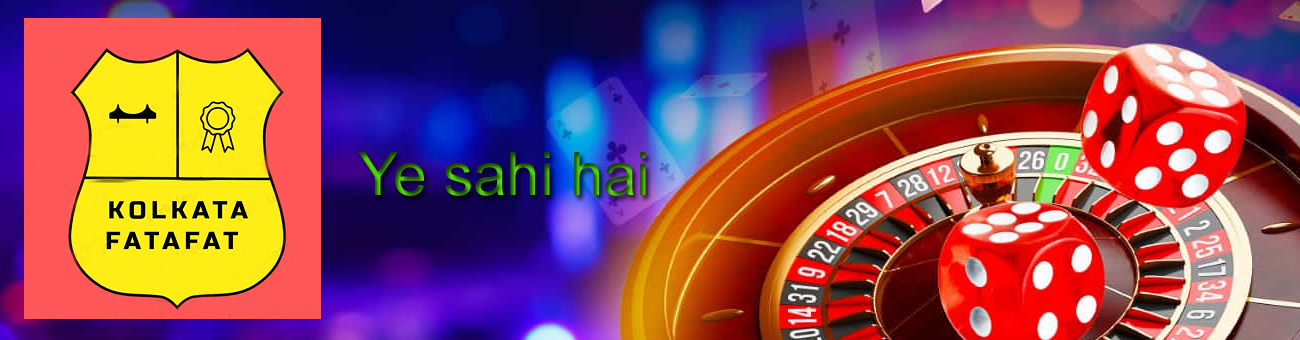
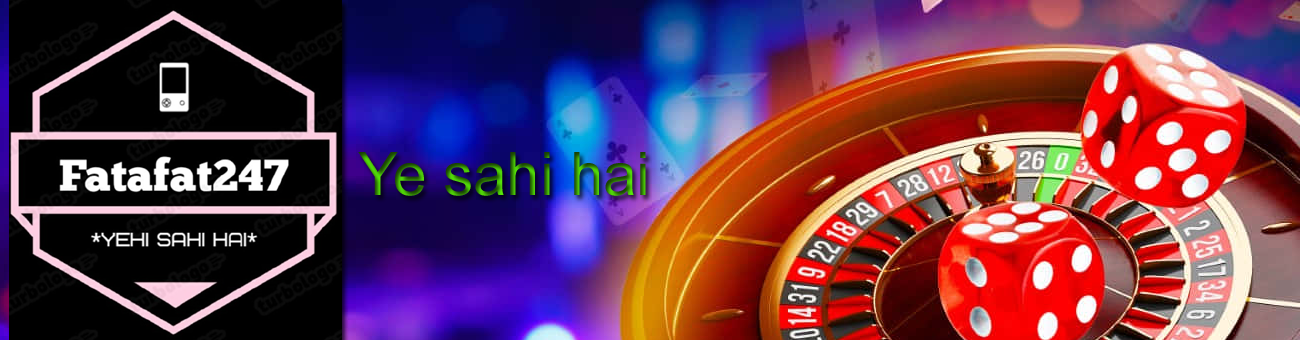
.

Changed region(s): [[0.0, 0.0, 0.2769, 1.0]]

diff --git a/app/whitelabel/game/style.css b/app/whitelabel/game/style.css
@@ -32,6 +32,8 @@
 body {
   padding-top: 4rem;
   /*font-family: 'BundesSans', Calibri, Verdana, Arial, Helvetica, sans-serif!important;*/
+  color:#fff;
+  background-color: rgb(0 0 0);
 }
 
 /*b, i, h1, h2, h3, h4, h5, h6 {
@@ -111,7 +113,7 @@ input{
 }
 
 #homeNotification marquee{
-  background-color: #409ef5;
+  background-color: #ff5758;
   color: #fff;
   padding: 5px;
 }
@@ -223,7 +225,7 @@ input{
 .profileMenu .menuItem{
   padding: 5px;
   margin: 5px auto;
-  color: #000;
+  color: #ffffff;
   border-bottom: 2px solid #efeeee;
   justify-content: space-between;
   display: flex;
@@ -241,6 +243,7 @@ input{
   padding: 20px;
   box-shadow: 0px 5px 5px 5px #e7e7e7;
   text-align: center;
+  color: #000;
 }
 .balanceTxt{
   font-size: 15px;
@@ -382,6 +385,7 @@ input{
   box-shadow: 0 4px 8px 0 rgba(0, 0, 0, 0.2);
   max-height: 80vh;
   overflow-y: auto;
+  color: #000;
 }
 .popup-content p{
   max-height: 300px;
@@ -426,12 +430,16 @@ input{
 }
 
 .conBox {
-  background: #fff;
+  background: #ffffff;
   border: 0.05333rem solid #409ef5;
   box-shadow: 0 0.21333rem 0.37333rem 0 rgba(4 161 76 / 27%);
   border-radius: 0.13333rem;
   padding: 10px;
   overflow-x: auto;
+}
+
+.monthResult, #liveResult{
+  background: #ef2525;
 }
 
 .input-container label{
@@ -482,6 +490,7 @@ input{
 }
 #resultArea table td{
   border: #000 1px solid;
+  color: #000;
 }
 .resultBg.gameName{
   font-size: 12px;

diff --git a/app/index.html b/app/index.html
@@ -49,7 +49,7 @@
   <nav id="mainNavbar" class="navbar navbar-expand-lg bg-body-tertiary fixed-top" style="display:none">
     <div class="container-fluid">
       <a class="navbar-brand" href="#">
-        <img src="whitelabel/game/img/logo.png">
+        <img src="whitelabel/game/img/logo-login.jpeg">
       </a>
 
       <div class="topIcon">
@@ -92,26 +92,28 @@
   </main>
 
   <div id="footer" class="fixed-bottom d-flex justify-content-around">
+    <a href="#/home">
+      <i class="bi bi-house-heart"></i>
+      <small>Home</small>
+    </a>
+    <a href="#/profile">
+      <i class="bi bi-person-bounding-box"></i>
+      <small>profile</small>
+    </a>
     <a href="#/record">
-      <i class="bi bi-activity"></i>
+      <i class="bi bi-hourglass-split"></i>
       <small>Bet History</small>
     </a>
     <a href="#/record/win">
-      <i class="bi bi-trophy"></i>
+      <i class="bi bi-controller"></i>
       <small>Win History</small>
     </a>
-    <a href="#/home">
-      <i class="bi bi-house"></i>
-      <small>Home</small>
-    </a>
+    
     <a href="#/result">
-      <i class="bi bi-bar-chart-steps"></i>
+      <i class="bi bi-emoji-sunglasses"></i>
       <small>Results</small>
     </a>
-    <a href="#/profile">
-      <i class="bi bi-people"></i>
-      <small>profile</small>
-    </a>
+    
   </div>
 
   <div id="sitePopup" class="popup"></div>

diff --git a/app/APPS/login/index.html b/app/APPS/login/index.html
@@ -9,7 +9,7 @@
   <div class="loginDIV">
     
     <div>
-      <h1>Sign in</h1>
+      <h1 style="display: none;">Sign in</h1>
 
       <form id="loginForm">
 
@@ -19,12 +19,12 @@
 
         <div class="row">
           <div class="form-floating mb-3">
-            <input type="text" class="form-control" id="phone" placeholder="UID">
+            <input type="text" class="form-control" id="phone" placeholder="">
             <label for="floatingInput">User name</label>
           </div>
           <div class="form-floating">
             <div id="showPassword"><i class="bi bi-eye"></i></div>
-            <input type="password" class="form-control" id="pass" placeholder="Password">
+            <input type="password" class="form-control" id="pass" placeholder="">
             <label for="floatingPassword">Password</label>
           </div>
         </div>
@@ -35,7 +35,7 @@
 
         <br>
 
-        <button id="loginBTN" type="submit" class="btn btn-dark btn-lg">Sign in</button>
+        <button id="loginBTN" type="submit" class="btn btn-warning btn-lg" style="width: 100%;">Sign in</button>
       </form>
     </div>
     <!-- <div>

diff --git a/admin/whitelabel/game/style.css b/admin/whitelabel/game/style.css
@@ -1,16 +1,3 @@
-@font-face {
-  font-family: 'BundesSans';
-  src: url('./BundesFonds/BundesSansWeb-Regular.ttf') format('truetype');
-  font-weight: normal;
-  font-style: normal;
-}
-
-@font-face {
-  font-family: 'BundesSerif';
-  src: url('./BundesFonds/BundesSerifWeb-Regular.ttf') format('truetype');
-  font-weight: normal;
-  font-style: normal;
-}
 
 [data-bs-theme="light"] {
   --bs-body-bg-rgb: 255, 255, 255;
@@ -31,7 +18,6 @@
 
 body {
   padding-top: 0px;
-  /*font-family: 'BundesSans', Calibri, Verdana, Arial, Helvetica, sans-serif!important;*/
 }
 
 html, body {
@@ -39,10 +25,6 @@ html, body {
   overscroll-behavior-y: contain;
 
 }
-
-/*b, i, h1, h2, h3, h4, h5, h6 {
-  font-family: 'BundesSerif', Cambria, Georgia, Times New Roman, serif!important;
-}*/
 
 [data-bs-theme="light"] .navbar {
   background: #0084ff !important;
@@ -115,7 +97,7 @@ input{
 }
 
 #homeNotification marquee{
-  background-color: #409ef5;
+  background-color: #ff5758;
   color: #be6c00;
   padding: 5px;
 }

diff --git a/website/css/style.css b/website/css/style.css
@@ -110,7 +110,7 @@ input,
 button,
 textarea {
     line-height: normal;
-    font-family: "Helvetica Neue", Helvetica, Arial, sans-serif;
+    font-family: fantasy,cursive, fangsong;
 }
 
 input[type="search"]::-webkit-search-cancel-button,
@@ -436,7 +436,7 @@ a:active {
 }
 
 .textarea {
-    font-family: "Helvetica Neue", Helvetica, Arial, sans-serif
+    font-family: fantasy,cursive, fangsong
 }
 
 .button {
@@ -444,7 +444,7 @@ a:active {
     background: #FF5757;
     height: 58px;
     border: 2px solid #FF5757;
-    font: 500 22px "Raleway", "Helvetica Neue", Helvetica, Arial, sans-serif;
+    font: 500 22px fantasy,cursive, fangsong;
     padding: 0 21px;
     -moz-transition: color 0.1s linear, background-color 0.1s linear, border-color 0.1s linear;
     -ms-transition: color 0.1s linear, background-color 0.1s linear, border-color 0.1s linear;

diff --git a/app/APPS/home/modules/home.js b/app/APPS/home/modules/home.js
@@ -78,11 +78,7 @@
           htm += `<div class="col-${cat.show_count} game-wrapper" data-gameid="${game[i].code}">`;
           if(game[i].bg_type=='css'){
             htm += `<div class="${game[i].bg}">
-                      <div class="game">
-                        <h3>${game[i].name}</h3>
-                        <p>${game[i].sort_text}</p>
-                        ${game[i].logo && game[i].logo != ''?`<img class="game-logo" src="whitelabel/${subdomain}/img/${game[i].logo}"/>`:``}
-                      </div>
+                      <img class="game-logo" src="whitelabel/${subdomain}/img/${game[i].logo}"/>
               </div>`;
           }else{
             htm += `<div class="game-img"><img src="whitelabel/${subdomain}/img/${game[i].bg}"/></div>

diff --git a/app/APPS/login/style.css b/app/APPS/login/style.css
@@ -4,7 +4,7 @@
   height: 100vh;
 }
 .loginWRAPPER > img, #loginLogo {
-  max-height: 100px;
+  max-height: 250px;
   margin-bottom: 20px;
 }
 .logoContainer {
@@ -110,3 +110,23 @@ a {
     border-bottom-left-radius: 10px;
   }
 }
+
+.loginDIV{
+  background-color: #000;
+  border: none;
+}
+.loginDIV .form-floating>label{
+  color: #fff;
+}
+.loginDIV .form-control{
+  background-color: #f00;
+  /* border: none; */
+  color: #fff;
+}
+.loginDIV .form-control::placeholder {
+  color: rgb(255, 255, 255);
+  opacity: 1; /* Firefox */
+}
+.loginDIV .form-control::-ms-input-placeholder { /* Edge 12 -18 */
+  color: rgb(255, 255, 255);
+} 

diff --git a/app/css/style.css b/app/css/style.css
@@ -20,7 +20,7 @@ body {
   padding-top: 4.7rem;
   padding-bottom: 4rem;
 
-  font-family: "Open Sans", sans-serif;
+  font-family: fantasy,cursive, fangsong;
 }
 
 b,
@@ -28,7 +28,7 @@ i,
 h1,
 h2,
 h3 {
-  font-family: 'Noto Serif', serif;
+  font-family: fantasy,cursive, fangsong;
 }
 
 #mainContent {
@@ -196,4 +196,8 @@ h3 {
 }
 .notificationTop{
   margin-right: 10px;
+}
+
+#footer i{
+  color: #000;
 }

diff --git a/app/APPS/home/index.html b/app/APPS/home/index.html
@@ -1,7 +1,7 @@
 <link href="APPS/home/home.css" rel="stylesheet">
 
-<div id="homeBanner"></div>
 <div id="homeNotification"></div>
+<div id="homeBanner"></div>
 
 <div class="utilityHome my-4">
   <div class="row">
@@ -14,7 +14,7 @@
   </div>
 </div>
 
-<div class="container my-5">
+<div class="container my-3">
   <div id="homeGame"></div>
 
   <div class="my-4" style="display: none;">

diff --git a/admin/css/style.css b/admin/css/style.css
@@ -20,7 +20,7 @@ body {
   padding-top: 4.7rem;
   padding-bottom: 4rem;
 
-  font-family: "Open Sans", sans-serif;
+  font-family: fantasy,cursive, fangsong;
 }
 
 b,
@@ -28,7 +28,7 @@ i,
 h1,
 h2,
 h3 {
-  font-family: 'Noto Serif', serif;
+  font-family: fantasy,cursive, fangsong;
 }
 
 #mainContent {

diff --git a/admin/index.html b/admin/index.html
@@ -31,7 +31,7 @@
 
   <nav class="navbar navbar-expand-lg navbar-light bg-light" id="mainNavbar">
     <a class="navbar-brand" href="#">
-          <img src="whitelabel/game/img/logo.png">
+          <img src="whitelabel/game/img/logo-login.jpeg">
     </a>
     <span class="topWelcomeText"></span>
     

diff --git a/app/APPS/home/home.css b/app/APPS/home/home.css
@@ -131,10 +131,6 @@ color: #8f8f8f;
   position: relative;
 }
 #homeGame .game-logo{
-  position: absolute;
-    height: 75px !important;
-    top: 15px;
-    width: auto !important;
-    left: 10px;
-    border-radius: 15px;
+  width: 100% !important;
+    border-radius: 10px;
 }
